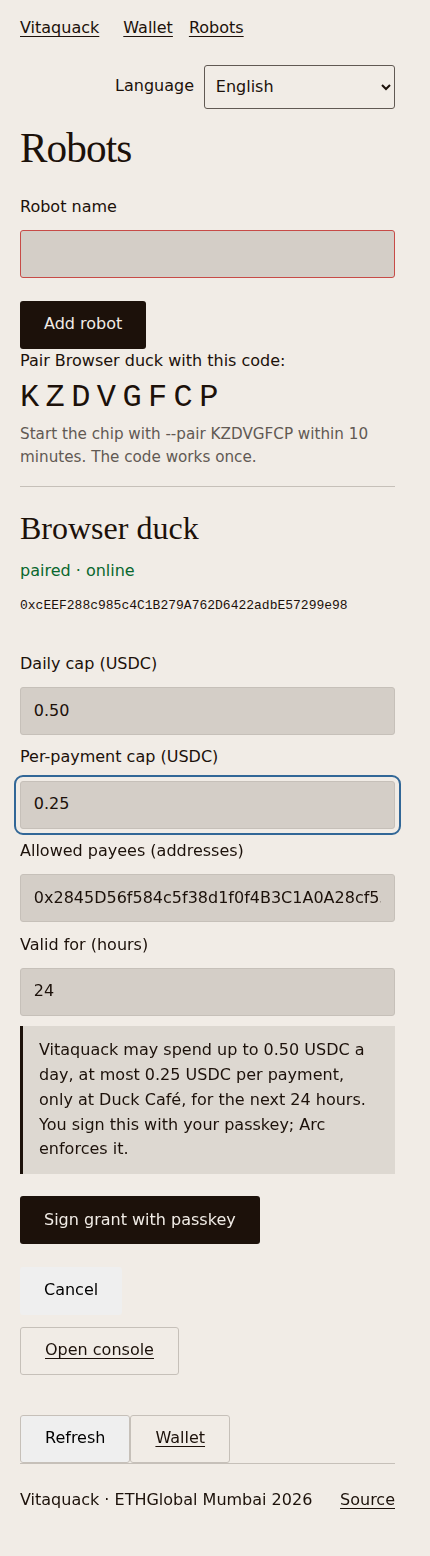
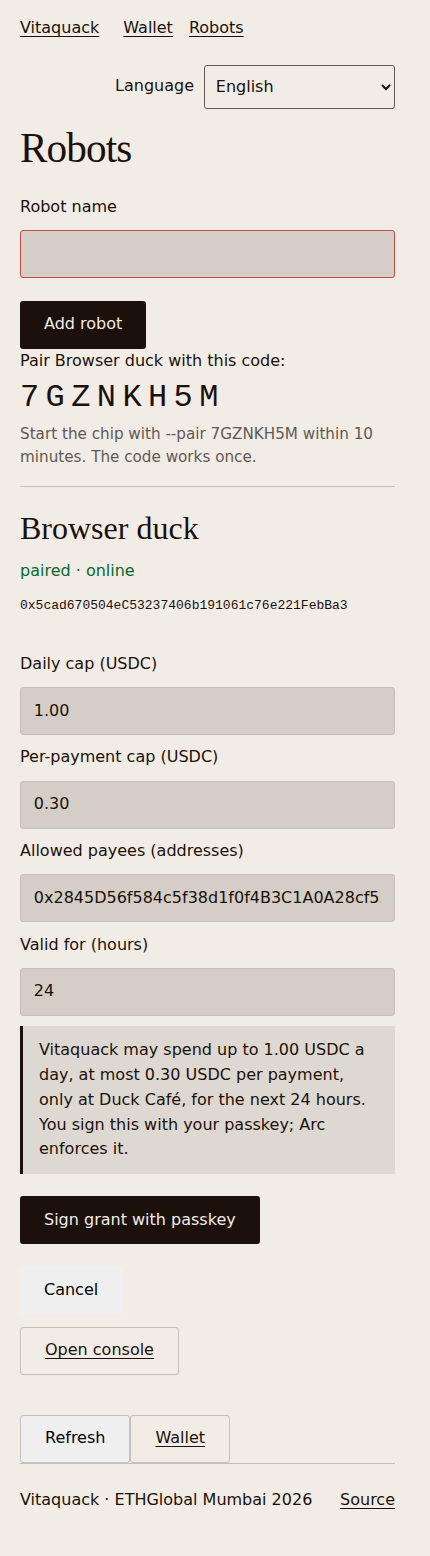
Evidence run 4 (rehearsal brain = LiteLLM, not 0G): through the deployed pages a passkey-granted robot paid a chai on Arc (0x782f8dfc…8875) with a mid-errand reload restored, the grant was revoked (0xaaa018d2…27c6) and the next chai refused by Arc (CannotUseADisabledDelegation); cigarettes walked aw

diff --git a/docs/evidence/2026-11-06-deployed-browser.md b/docs/evidence/2026-11-06-deployed-browser.md
@@ -26,10 +26,32 @@ for the next 24 hours. You sign this with your passkey; Arc enforces it."), `05-
 day, at most 0.25 USDC per payment (active)"), `06-console-not-configured.png` (Buy Chai → "not configured:
 ZG_API_KEY": no decision is faked), `08-gate.png` (CLOSED).
 
+## Run 4 — the funded journey on release 1395f65 (≈ 12:20 IST), **rehearsal: brain = LiteLLM → DeepSeek, not 0G**
+
+`heavy --wait bun --env-file=.env.main.local packages/server/scripts/wallet-browser.ts --fund 0.65` against release
+`1395f6500909c3703fe3872a9f590eb22afda2c1` (`/api/health` features all true; World = the rehearsal stub). The robot's
+brain on this deploy is the **rehearsal brain** (LiteLLM on Railway → `deepseek-v4.1-flash`), and the console labels
+every decision "The rehearsal brain (not 0G) decided …" with its provider; none of this run is a 0G decision.
+
+| Step | Result | Arc |
+| --- | --- | --- |
+| Signup (virtual passkey) | owner `0xaa55C05FfA28774128fbd39eEf2D8891970237Cb` | — |
+| Fund 0.65 USDC from the relayer | balance shown on `/wallet` | [0x78059dda…a051](https://explorer.arc.io/tx/0x78059dda4eadc89d087cd1e44edde223c283d14dabf9c27d35770d50b308a051) |
+| Add robot → mock chip pairs | chip `0x5cad670504eC53237406b191061c76e221FebBa3` | — |
+| Grant 1.00/day, 0.30/payment, Duck Café, 24 h, signed with the passkey in the browser | `(active)`; the relayer deployed the account | — |
+| **Buy Chai** → rehearsal brain `pay` (request id `chatcmpl-f2778f51-…`, 1407 ms) → chip signs → **paid**; a reload mid-errand restored it from activity and the console polled 3 more times | `chai: paid`, **Payment on Arc** | [0x782f8dfc…8875](https://explorer.arc.io/tx/0x782f8dfc25083a5b9328deb949aa037487eb1d2c688492db7fd4e9225a598875) |
+| Gate (`/gate/duck-cafe`) | had already turned the page by the screenshot: OPEN lasts a few seconds, then it shows a fresh invoice (`08-gate.png`, CLOSED with the next invoice). The script now catches OPEN live (`08-gate-open.png` on the next run) | — |
+| **Buy Cigarettes** (twice) | the rehearsal brain answered `walk_away` ("approvalRequired=true … cannot be paid or approved"), so no approval was asked and nothing was paid (`10-restricted-approve-no-approval.png`). The decide prompt is being changed to answer `ask_human` when the owner asked for the item; the approve/deny via the stub reruns after that | — |
+| **Revoke grant** (passkey) | `(revoked)` + **Revoke transaction** | [0xaaa018d2…27c6](https://explorer.arc.io/tx/0xaaa018d2ee34ccd3647c22cb1ec532dd595f468451839e2b8b9b5696a7fe27c6) |
+| **Buy Chai after the revoke** → brain `pay` → the chip signs → settlement refused by Arc | `chai: failed`, "Reason: CannotUseADisabledDelegation" (`21-after-revoke.png`); nothing moved | — |
+
+Screens from this run: `01-signed-up`, `02-wallet`, `03-pairing-code`, `04-grant-consent` (1.00 / 0.30), `05-grant-active`,
+`06-console-live`, `07-console-ended` (paid, the rehearsal-brain label and provider), `08-gate`,
+`10-restricted-approve-no-approval` / `15-restricted-deny-no-approval` (walked away), `20-revoked`, `21-after-revoke`.
+
 ## Not yet proven on the deployed app
 
-- The console with a real 0G decision, a paid chai, the gate OPEN, the restricted-item deny and the revoke screenshots:
-  blocked on `APP_ZG_*`. Rerun with `--fund 0.15` once set.
-- The console's reload behaviour: proven on the native stack instead (1b8fbb7, `ConsoleBrowserAcceptance.ts`: the 0G
-  stub decides, the errand stays `signing`, a reload restores it from `/api/wallet/activity` and the page keeps polling;
-  `heavy --wait bun run test:native` → 17 pass, 0 fail).
+- A **0G** decision (this run's decisions came from the rehearsal brain).
+- The restricted item approved and denied through the issuer page (the rerun after the decide-prompt change), and a
+  live **World** approval (the stub is a rehearsal; the submission uses auth.world.org).
+- The gate's OPEN state in a screenshot (caught live from the next run on).

diff --git a/docs/evidence/README.md b/docs/evidence/README.md
@@ -11,6 +11,7 @@ unless the file says so. Keys, tokens and signatures are never pasted.
 | 06:32 | `2026-11-06-deployed-e2e.md` | The deployed app end to end up to 0G: passkey owner (virtual authenticator) funded → robot → mock chip paired through the edge → **first passkey-signed grant on mainnet** (relayer deploys the account, Arc's ERC-1271 check accepts the passkey signature) → errand answers 503 "not configured: ZG_API_KEY" (never a faked decision). Held polls through the deployed edge return in 24.8 s / 24.6 s with a 35 s lease. Run 1 (b342dc2) stopped at the official Arc RPC's rate limit for Cloudflare egress, which drove the publicnode decision. |
 | 06:40 | `2026-11-06-deployed-browser.md` | The deployed pages in Chromium with a virtual passkey: signup shows the counterfactual address, Add robot → the mock chip pairs, the **grant is signed through the real UI** and goes active, the console answers 503 until 0G is configured, the gate stays CLOSED; a revoke-answer decoding bug found and fixed (c1e8b59); screenshots in `screens/`; 0.15 USDC written off in a throwaway owner. |
 | 07:30 | `2026-11-06-world-stub.md` | **Rehearsal only:** the in-Worker stub issuer stands in for World IdP until the real client exists; on the native stack a restricted errand is approved through it (co-signed approval, errand `signing`), a second is denied (`denied`, nothing signed), a replayed callback is 409, the stub's token endpoint refuses a wrong secret and a spent code. |
+| 12:20 | `2026-11-06-deployed-browser.md` (run 4) | **Rehearsal (brain = LiteLLM → DeepSeek, not 0G):** through the real pages in Chromium: grant signed with a passkey, **Buy Chai paid on Arc** ([0x782f8dfc…8875](https://explorer.arc.io/tx/0x782f8dfc25083a5b9328deb949aa037487eb1d2c688492db7fd4e9225a598875)) with a mid-errand reload, revoke ([0xaaa018d2…27c6](https://explorer.arc.io/tx/0xaaa018d2ee34ccd3647c22cb1ec532dd595f468451839e2b8b9b5696a7fe27c6)), the next chai refused by Arc (`CannotUseADisabledDelegation`); cigarettes walked away (prompt fix pending). |
 
 Still to record: a real 0G decision and a paid errand on the deployed app (needs `APP_ZG_*`), the evidence uploader against
 0G Storage and `EpisodeLog` on Galileo (contract deployed; needs a paid episode), a

diff --git a/docs/submission.md b/docs/submission.md
@@ -83,7 +83,7 @@ revoke [0x04f6994c…fb87](https://explorer.arc.io/tx/0x04f6994cf6c2bb7b46650d38
 whose account deploy and ERC-1271 check ran on Arc
 [0xddd15708…4a0b](https://explorer.arc.io/tx/0xddd15708400a776ba01c383aede146e83d737c6e6bf815269d3e77e59cbf4a0b)
 (`docs/evidence/2026-11-06-deployed-e2e.md`, `docs/evidence/2026-11-06-deployed-browser.md`). Arc Studio project:
-https://studio.arc.io/app/63241623-a488-4452-ae23-ab151e4f2d75 (both contracts, 42 Foundry tests, Arc testnet deployments `0xf334…d711` / `0xe701…3579`, a page reading the live enforcer). Paid robot errand on the deployed app: _fill in tx_.
+https://studio.arc.io/app/63241623-a488-4452-ae23-ab151e4f2d75 (both contracts, 42 Foundry tests, Arc testnet deployments `0xf334…d711` / `0xe701…3579`, a page reading the live enforcer). A robot errand paid through the deployed pages, its decision from the rehearsal brain (not 0G): [0x782f8dfc…8875](https://explorer.arc.io/tx/0x782f8dfc25083a5b9328deb949aa037487eb1d2c688492db7fd4e9225a598875); the grant then revoked with the passkey ([0xaaa018d2…27c6](https://explorer.arc.io/tx/0xaaa018d2ee34ccd3647c22cb1ec532dd595f468451839e2b8b9b5696a7fe27c6)) and the next errand refused by Arc (`CannotUseADisabledDelegation`) (`docs/evidence/2026-11-06-deployed-browser.md`, run 4).
 
 ### 0G — Physical AI (Agents with a Body)
 
@@ -123,7 +123,7 @@ during the event too.
 
 ## What is not finished (keep honest at submission time)
 
-- A real 0G decision and a paid robot errand on the deployed app: _pending `APP_ZG_*`_.
+- A real 0G decision on the deployed app: _pending a 0G key in `APP_ZG_*`_ (a robot errand paid on the deployed app is proven with the LiteLLM rehearsal brain, labelled as such).
 - The evidence uploader against 0G Storage and `EpisodeLog` on Galileo: contract deployed (`0x4C94…206A`), first upload _pending a paid episode_.
 - A live World approve and deny: _pending the World IdP client_.
 - On-chain verification of the World token (the S5b prototype) is a stretch; the backend co-signer is what runs.

diff --git a/docs/demo.md b/docs/demo.md
@@ -13,6 +13,7 @@ the final run: replace them with the recorded ones in `docs/evidence/demo-run.md
 | Settle, replay refused, revoke, next payment refused (stock enforcers) | `docs/evidence/2026-11-06-smoke.md` |
 | Our `RobotPaymentPolicyEnforcer` on Arc | `docs/evidence/contracts.md` (`0x7c2167B0a49108b28DFDA3aca5ddddd9Af68e4D3`) |
 | A passkey-signed grant on the deployed app: the Worker's relayer deployed the Hybrid account and Arc's ERC-1271 check accepted the passkey signature | [0xddd15708…4a0b](https://explorer.arc.io/tx/0xddd15708400a776ba01c383aede146e83d737c6e6bf815269d3e77e59cbf4a0b) (`docs/evidence/2026-11-06-deployed-e2e.md`) |
+| Through the deployed pages (rehearsal brain = LiteLLM, not 0G): Buy Chai paid, a reload mid-errand restored, revoke, the next chai refused by Arc (`CannotUseADisabledDelegation`) | [0x782f8dfc…8875](https://explorer.arc.io/tx/0x782f8dfc25083a5b9328deb949aa037487eb1d2c688492db7fd4e9225a598875) paid, [0xaaa018d2…27c6](https://explorer.arc.io/tx/0xaaa018d2ee34ccd3647c22cb1ec532dd595f468451839e2b8b9b5696a7fe27c6) revoke (`docs/evidence/2026-11-06-deployed-browser.md`, run 4) |
 
 ## Before the slot (10 minutes)
 
